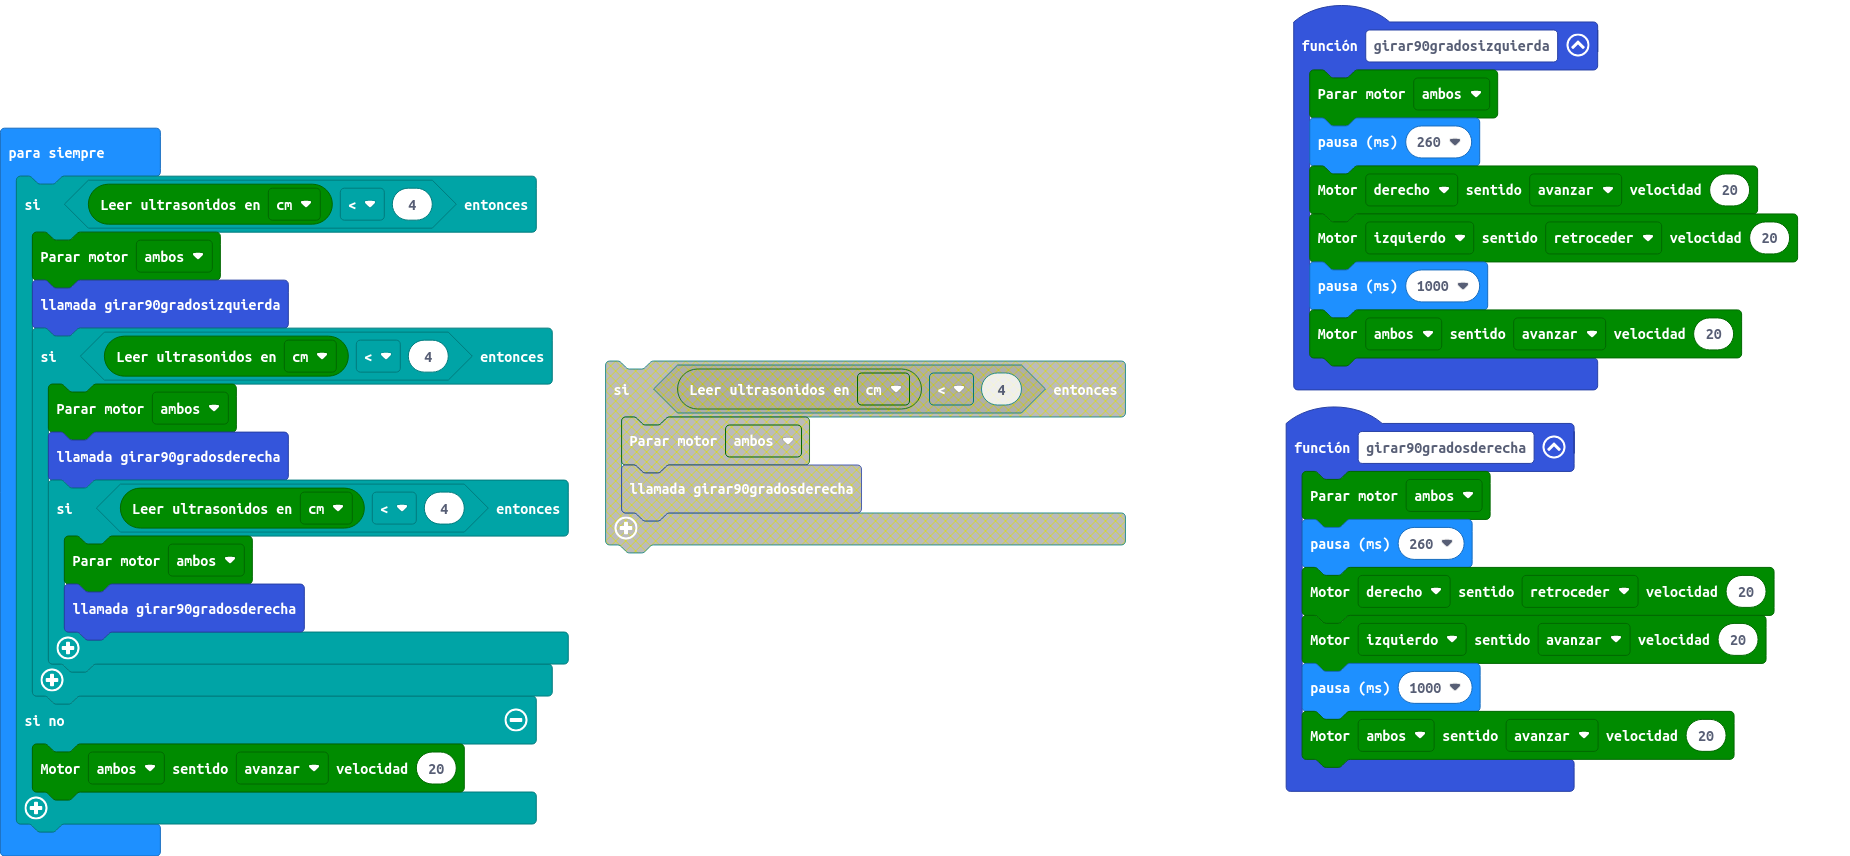
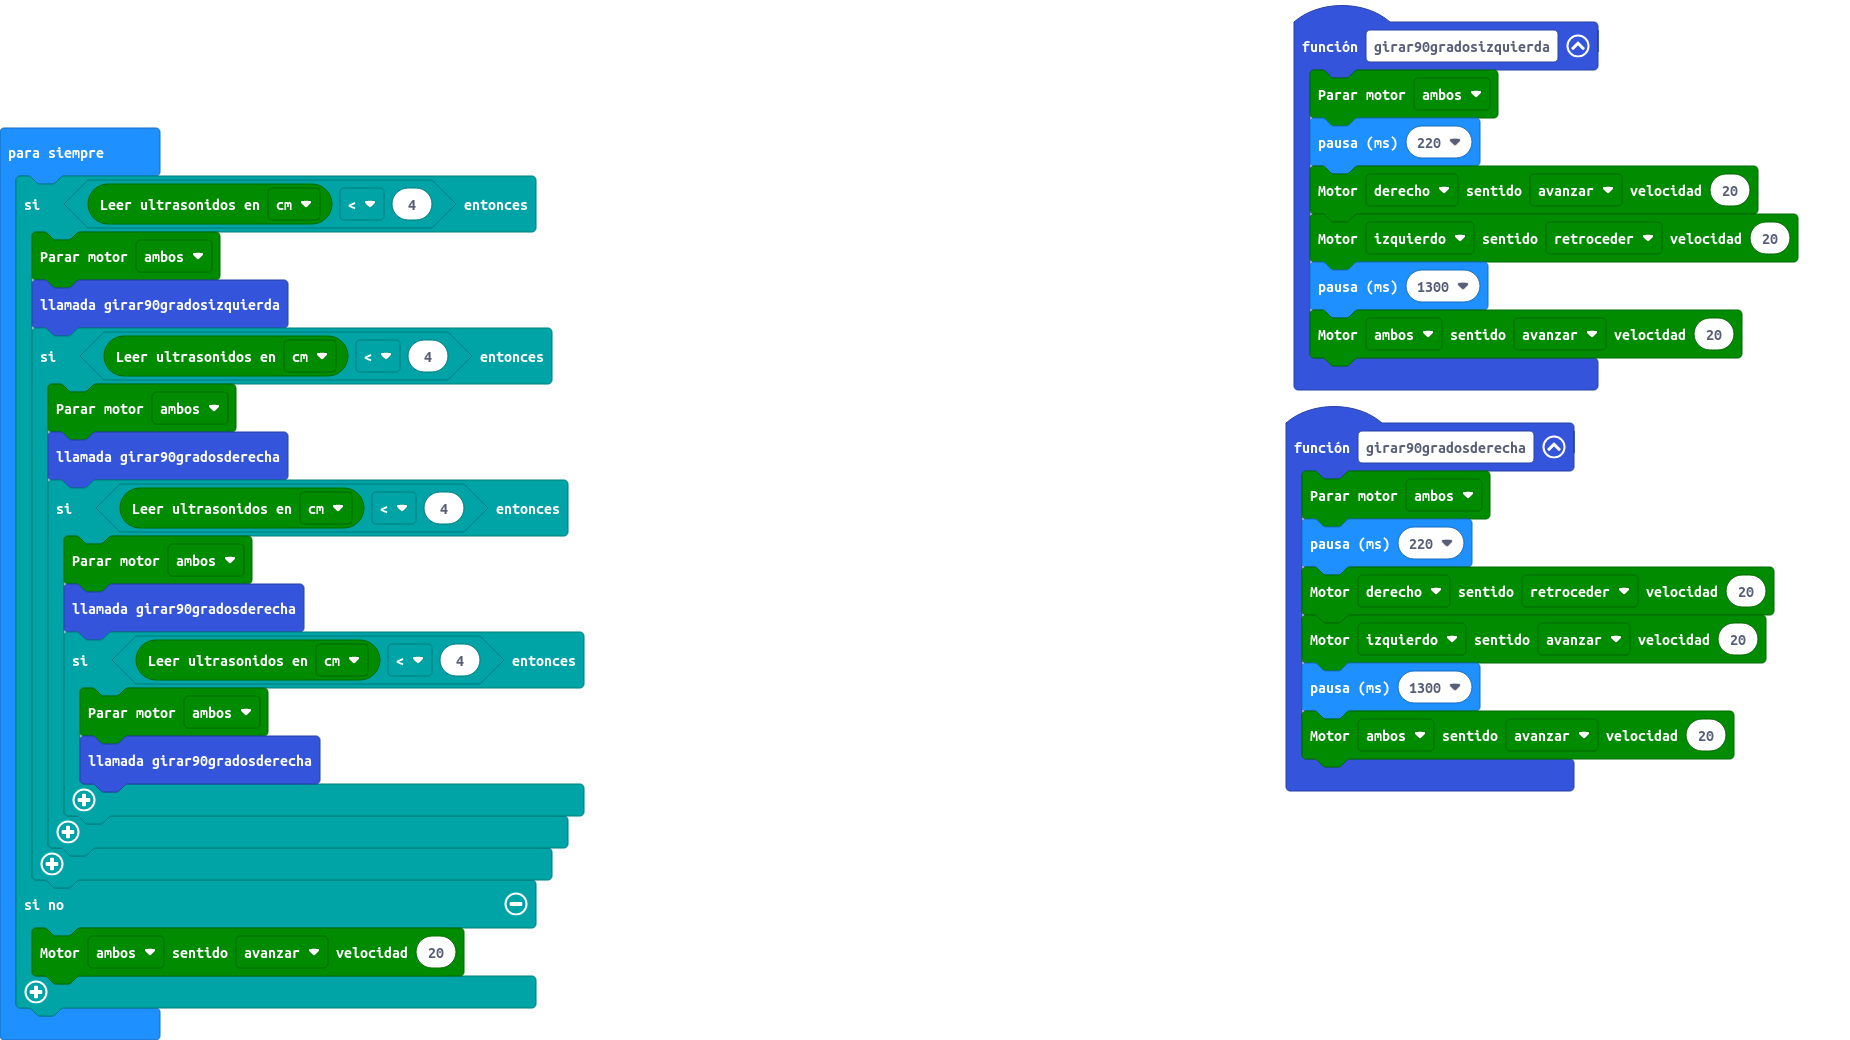
¡¡¡Lo he conseguido!!!

diff --git a/main.ts b/main.ts
@@ -1,17 +1,17 @@
 function girar90gradosderecha () {
     maqueen.motorStop(maqueen.Motors.All)
-    basic.pause(260)
+    basic.pause(220)
     maqueen.motorRun(maqueen.Motors.M2, maqueen.Dir.CCW, 20)
     maqueen.motorRun(maqueen.Motors.M1, maqueen.Dir.CW, 20)
-    basic.pause(1000)
+    basic.pause(1300)
     maqueen.motorRun(maqueen.Motors.All, maqueen.Dir.CW, 20)
 }
 function girar90gradosizquierda () {
     maqueen.motorStop(maqueen.Motors.All)
-    basic.pause(260)
+    basic.pause(220)
     maqueen.motorRun(maqueen.Motors.M2, maqueen.Dir.CW, 20)
     maqueen.motorRun(maqueen.Motors.M1, maqueen.Dir.CCW, 20)
-    basic.pause(1000)
+    basic.pause(1300)
     maqueen.motorRun(maqueen.Motors.All, maqueen.Dir.CW, 20)
 }
 basic.forever(function () {
@@ -24,6 +24,10 @@ basic.forever(function () {
             if (maqueen.Ultrasonic(PingUnit.Centimeters) < 4) {
                 maqueen.motorStop(maqueen.Motors.All)
                 girar90gradosderecha()
+                if (maqueen.Ultrasonic(PingUnit.Centimeters) < 4) {
+                    maqueen.motorStop(maqueen.Motors.All)
+                    girar90gradosderecha()
+                }
             }
         }
     } else {
